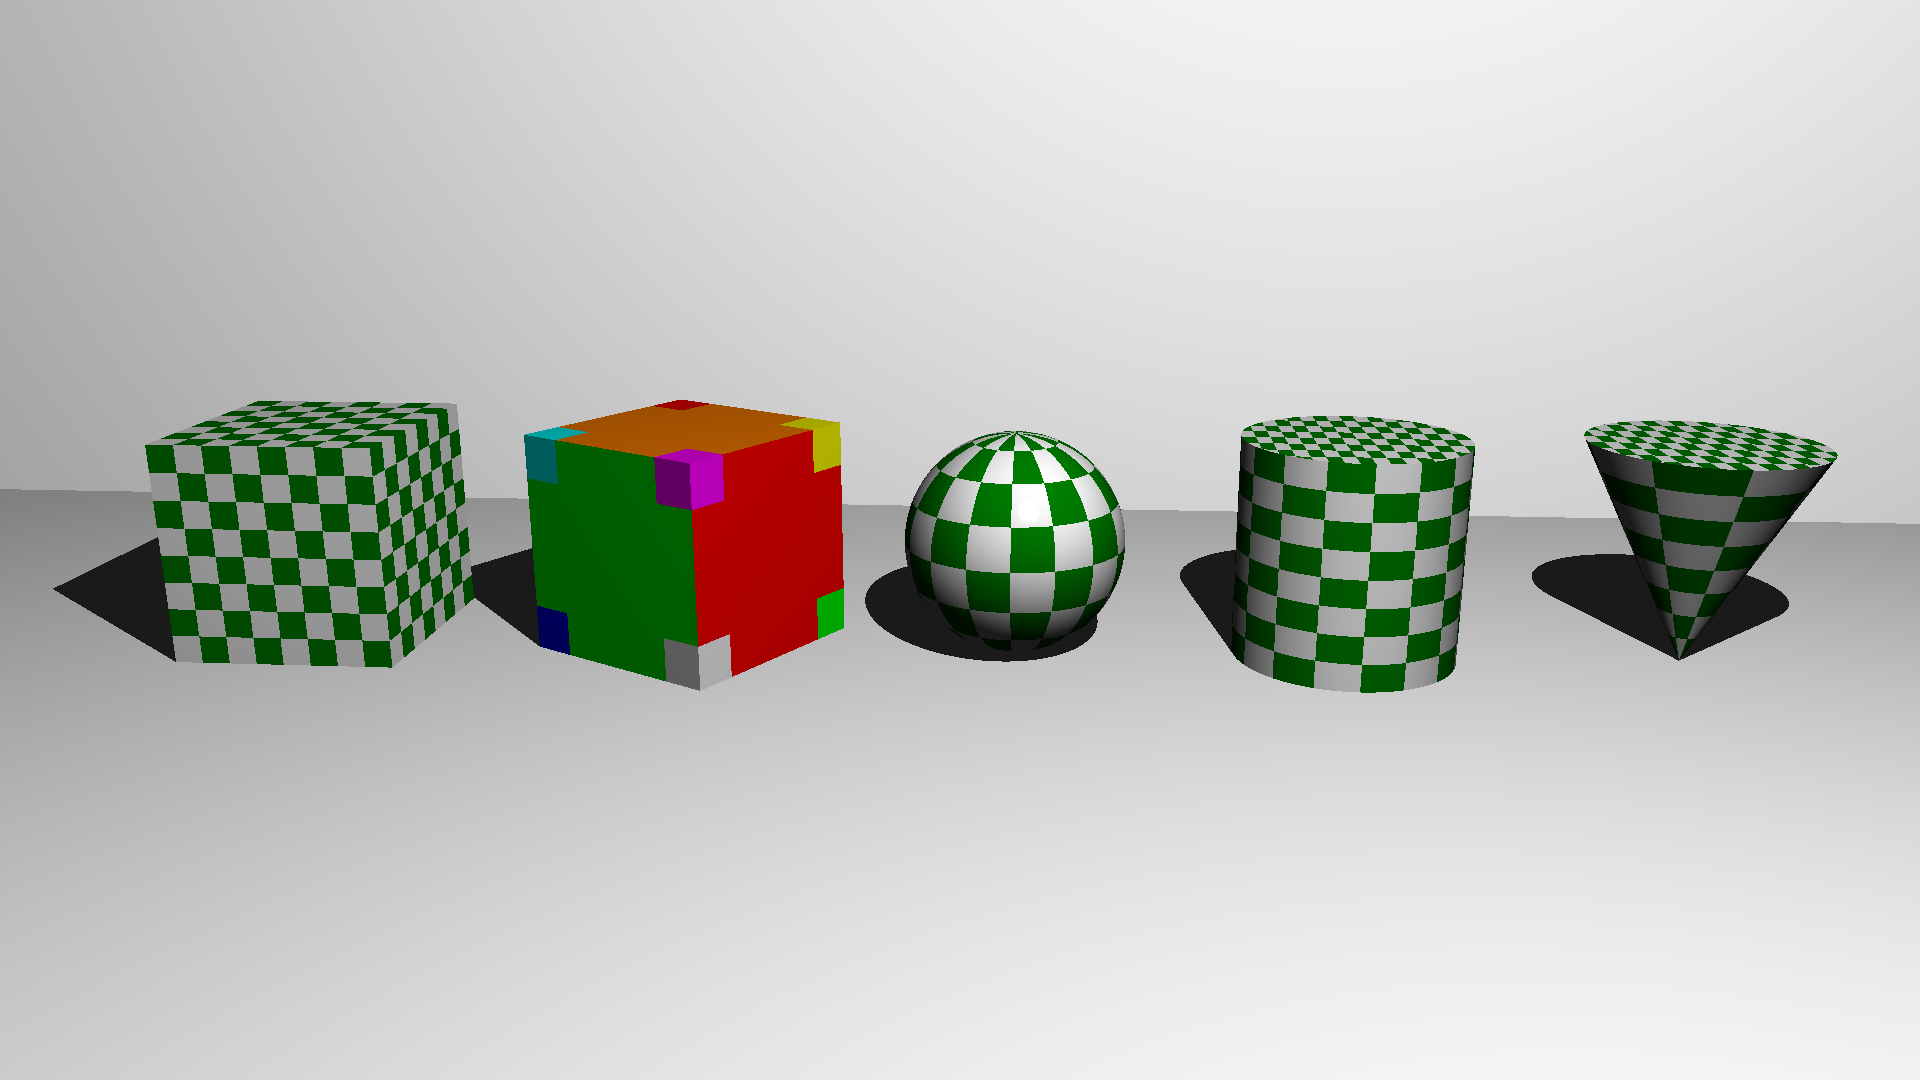
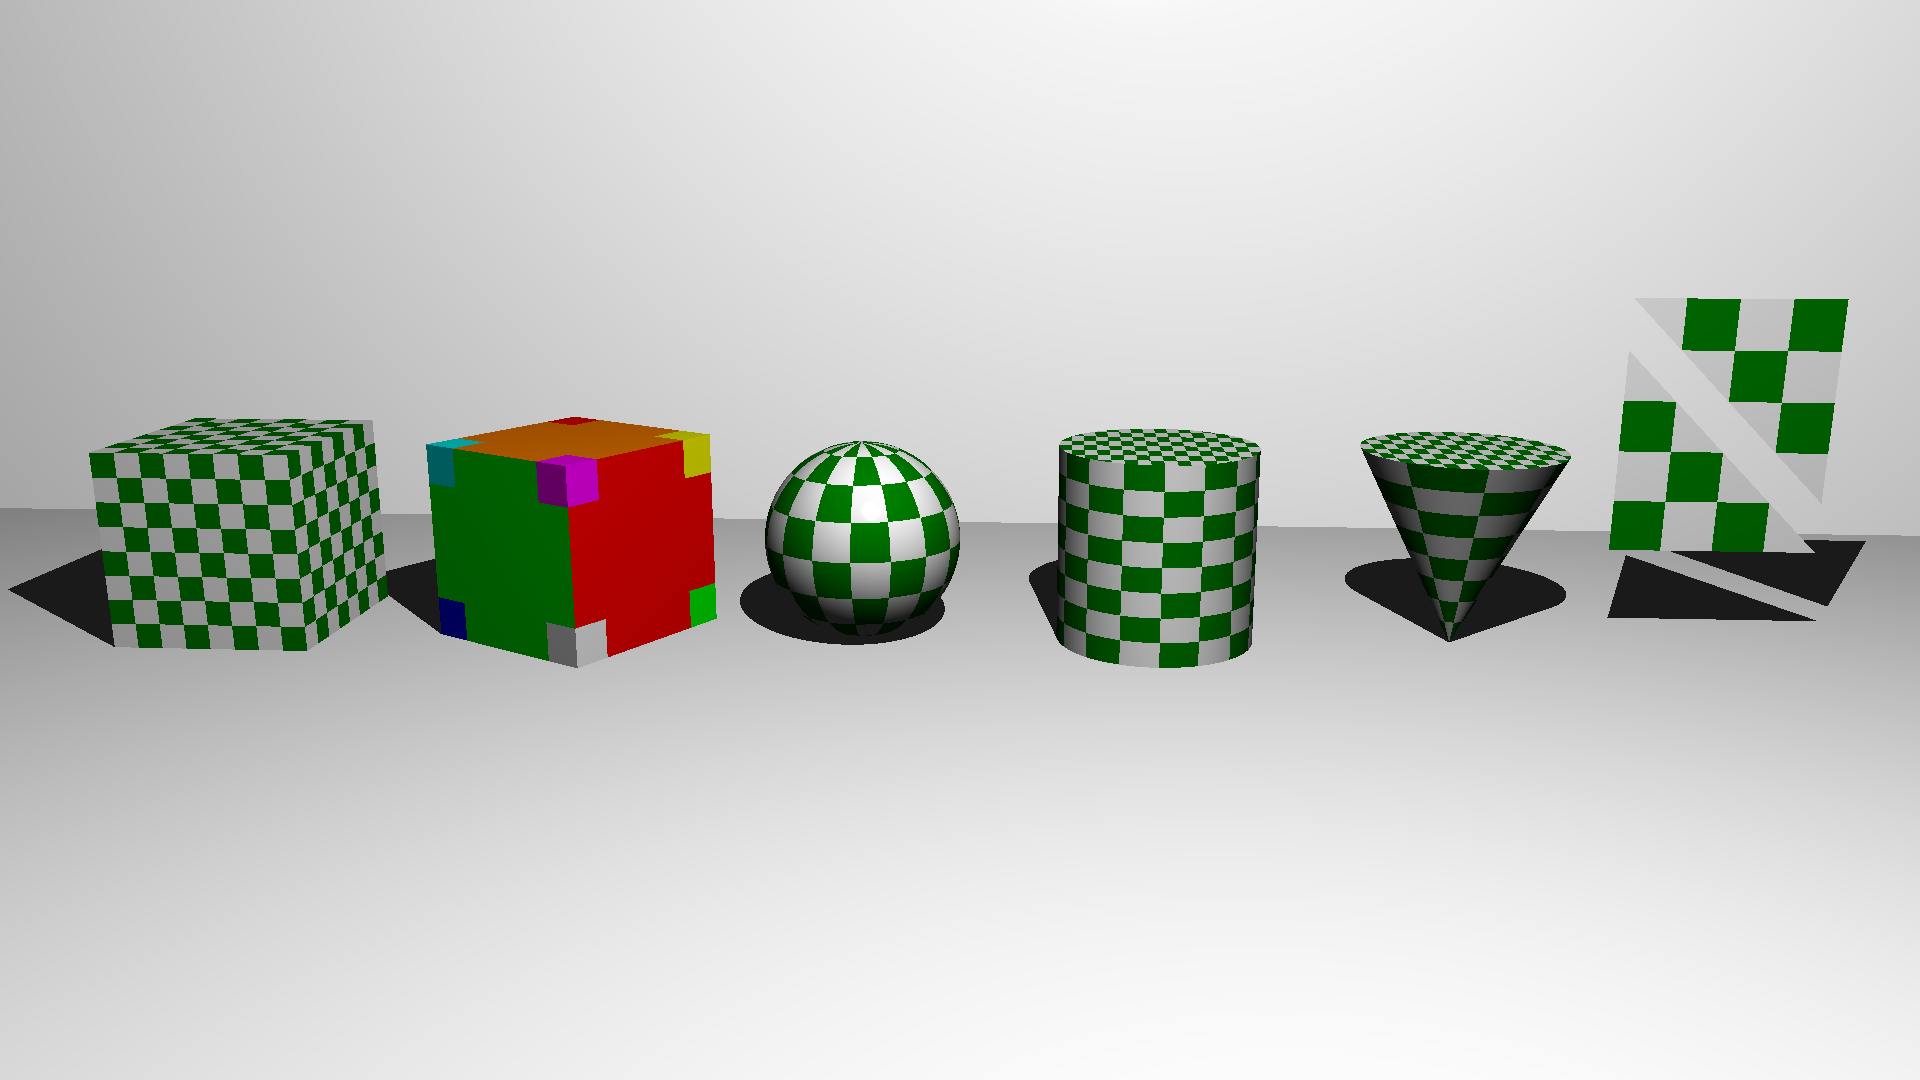
add benchmarks for UVs

Changed region(s): [[0.0, 0.275, 1.0, 0.6417]]

diff --git a/benches/benchmarks/trivial_scenes.rs b/benches/benchmarks/trivial_scenes.rs
@@ -3,7 +3,7 @@ use nonzero_ext::*;
 use ray_tracer::core::*;
 use ray_tracer::renderer;
 use ray_tracer::renderer::{Camera, Samples};
-use ray_tracer::scene::{Light, Object, World};
+use ray_tracer::scene::{Light, Material, MaterialKind, Object, UvPattern, World};
 use std::f64::consts::PI;
 
 criterion_group! {
@@ -51,15 +51,82 @@ fn empty_scene_full_render(c: &mut Criterion) {
 
 // compare primitives/actually render stuff
 fn single_object_full_render(c: &mut Criterion) {
+    fn uv_checkers() -> UvPattern {
+        UvPattern::checkers(
+            Colour::BLACK,
+            Colour::WHITE,
+            nonzero_ext::nonzero!(1usize),
+            nonzero_ext::nonzero!(1usize),
+        )
+    }
+    fn uv_material() -> Material {
+        Material {
+            kind: MaterialKind::Uv(uv_checkers()),
+            ..Default::default()
+        }
+    }
     // awkward way to dynamically create primitives for tests
     // - need explicit type or type inference gets very upset
     // - need `fn` because these aren't `Copy` (and can't be)
     let shapes: Vec<(&str, Box<fn() -> Object>)> = vec![
         ("sphere", Box::new(|| Object::sphere())),
+        (
+            "sphere (UV)",
+            Box::new(|| Object::sphere().with_material(uv_material())),
+        ),
         ("plane", Box::new(|| Object::plane())),
+        (
+            "plane (UV)",
+            Box::new(|| Object::plane().with_material(uv_material())),
+        ),
         ("cube", Box::new(|| Object::cube())),
+        (
+            "cube (UV)",
+            Box::new(|| {
+                Object::cube().with_material(Material {
+                    kind: MaterialKind::Uv(UvPattern::cubic(
+                        uv_checkers(),
+                        uv_checkers(),
+                        uv_checkers(),
+                        uv_checkers(),
+                        uv_checkers(),
+                        uv_checkers(),
+                    )),
+                    ..Default::default()
+                })
+            }),
+        ),
         ("cylinder", Box::new(|| Object::cylinder().build())),
+        (
+            "cylinder (UV, uncapped)",
+            Box::new(|| Object::cylinder().build().with_material(uv_material())),
+        ),
         ("cone", Box::new(|| Object::cone().build())),
+        (
+            "cone (UV, uncapped)",
+            Box::new(|| Object::cone().build().with_material(uv_material())),
+        ),
+        (
+            "triangle",
+            Box::new(|| {
+                Object::triangle(
+                    Point3D::ORIGIN,
+                    Point3D::new(0.0, 1.0, 0.0),
+                    Point3D::new(1.0, 0.0, 0.0),
+                )
+            }),
+        ),
+        (
+            "triangle (UV)",
+            Box::new(|| {
+                Object::triangle(
+                    Point3D::ORIGIN,
+                    Point3D::new(0.0, 1.0, 0.0),
+                    Point3D::new(1.0, 0.0, 0.0),
+                )
+                .with_material(uv_material())
+            }),
+        ),
     ];
 
     let mut group = c.benchmark_group("render scene with single object (1920x1080)");

diff --git a/examples/uv_patterns/main.rs b/examples/uv_patterns/main.rs
@@ -158,15 +158,49 @@ fn main() -> Result<(), String> {
             ),
     );
 
-    // TODO add triangles
+    world.add(
+        Object::triangle(
+            Point3D::ORIGIN,
+            Point3D::new(0.0, 2.0, 0.0),
+            Point3D::new(2.0, 0.0, 0.0),
+        )
+        .with_material(Material {
+            kind: MaterialKind::Uv(UvPattern::checkers(
+                Colour::new(0.0, 0.5, 0.0),
+                Colour::WHITE,
+                nonzero_ext::nonzero!(4usize),
+                nonzero_ext::nonzero!(4usize),
+            )),
+            ..Default::default()
+        })
+        .transformed(Transform::identity().translate_x(9.0)),
+    );
+
+    world.add(
+        Object::triangle(
+            Point3D::ORIGIN,
+            Point3D::new(0.0, -2.0, 0.0),
+            Point3D::new(-2.0, 0.0, 0.0),
+        )
+        .with_material(Material {
+            kind: MaterialKind::Uv(UvPattern::checkers(
+                Colour::new(0.0, 0.5, 0.0),
+                Colour::WHITE,
+                nonzero_ext::nonzero!(4usize),
+                nonzero_ext::nonzero!(4usize),
+            )),
+            ..Default::default()
+        })
+        .transformed(Transform::identity().translate_y(2.5).translate_x(11.0)),
+    );
 
     let camera = Camera::new(
         nonzero_ext::nonzero!(1920u16),
         nonzero_ext::nonzero!(1080u16),
         FRAC_PI_3,
         Transform::view_transform(
-            Point3D::new(2.0, 4.0, -14.0),
-            Point3D::new(1.0, 0.0, 0.0),
+            Point3D::new(3.5, 4.0, -16.0),
+            Point3D::new(2.5, 0.0, 0.0),
             Normal3D::POSITIVE_Y,
         ),
     );

diff --git a/src/scene/shape/triangle.rs b/src/scene/shape/triangle.rs
@@ -124,20 +124,19 @@ impl Shape for Triangle {
 
     // calculate Barycentric coordinates; see https://en.wikipedia.org/wiki/Barycentric_coordinate_system#Barycentric_coordinates_on_triangles
     fn uv_at(&self, point: Point3D) -> (f64, f64) {
-        let edge3 = self.p3 - self.p1;
         let point_to_origin = point - self.p1;
 
         let e1_dot_e1 = self.edge1.dot(self.edge1);
-        let e1_dot_e3 = self.edge1.dot(edge3);
-        let e3_dot_e3 = edge3.dot(edge3);
+        let e1_dot_e2 = self.edge1.dot(self.edge2);
+        let e2_dot_e2 = self.edge2.dot(self.edge2);
         // TODO this should probably be pre-computed (inverted)
-        let denominator = e1_dot_e1 * e3_dot_e3 - e1_dot_e3.powi(2);
+        let denominator = e1_dot_e1 * e2_dot_e2 - e1_dot_e2.powi(2);
 
         let point_dot_e1 = point_to_origin.dot(self.edge1);
-        let point_dot_e3 = point_to_origin.dot(edge3);
+        let point_dot_e2 = point_to_origin.dot(self.edge2);
 
-        let v = (e3_dot_e3 * point_dot_e1 - e1_dot_e3 * point_dot_e3) / denominator;
-        let w = (e1_dot_e1 * point_dot_e3 - e1_dot_e3 * point_dot_e1) / denominator;
+        let v = (e2_dot_e2 * point_dot_e1 - e1_dot_e2 * point_dot_e2) / denominator;
+        let w = (e1_dot_e1 * point_dot_e2 - e1_dot_e2 * point_dot_e1) / denominator;
 
         // using `v` and `w` like this (and ignoring `u`) gives the same coordinates as Möller–Trumbore
         (v, w)
